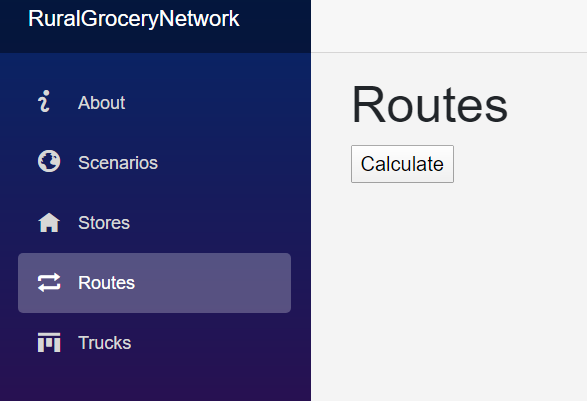
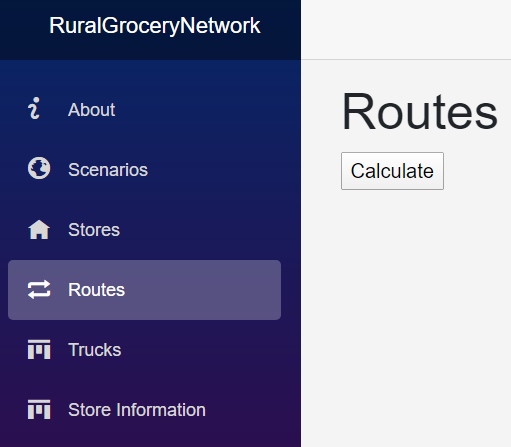
updated some of the screenshots and also updated the user-documentation

diff --git a/userdoc/user-documentation.md b/userdoc/user-documentation.md
@@ -18,7 +18,8 @@ should be. Once you are done entering the information, hit the "Register" button
 ![Register an account](img/register-account.PNG)
 
 To Login, you just enter the email and password that you provided in the registration. Once it is entered, hit the
-"Log In" Button. Users can also click "forgot password" to change the password through email, or "Register as a new user" to redirect to the registration page. Currently the functionality for recovering/changing passwords through email is a Work-In Progress.
+"Log In" Button. Users can also click "Forgot Password" to change the password through email, or "Register as a new user" 
+to redirect to the registration page. Currently the functionality for recovering/changing passwords through email is a Work-In Progress (WIP).
 
 ![Login page](img/login.PNG)
 
@@ -28,7 +29,8 @@ on the upper right hand corner of the page.
 ![Login Successful](img/login-complete.PNG)
 
 ### Account Settings
-When logged in, click on the email on the upper right hand corner to access Account Settings. To navigate back to the main web pages, just click on the "RuralGroceryNetwork" Banner at the top of the page. Currently we have the following settings for user accounts:
+When logged in, click on the email on the upper right hand corner to access Account Settings. To navigate back to the main web pages, 
+just click on the "RuralGroceryNetwork" Banner at the top of the page. Currently we have the following settings for user accounts:
 
 #### Profile information
 Users can change username and add/change the phone number for the account.
@@ -47,14 +49,18 @@ This is where users can change the password for their account. They do need to e
 ![Password Setting](img/password.PNG)
 
 #### Two-Step Authentication
-Users can add an app to do Two-Step Authentication with. After clicking the "set up authenticator app" button, you get steps to add an app like Microsoft Authenticator, using QR Code generation or through a key entry that is provided in this page. Users can also reset their authentication key, for when they want to stop using it or want to switch authentication apps.
+Users can add an app to do Two-Step Authentication with. After clicking the "set up authenticator app" button, 
+you get steps to add an app like Microsoft Authenticator, using QR Code generation or through a key entry that is provided in this page. 
+Users can also reset their authentication key, for when they want to stop using it or want to switch authentication apps.
 
 ![2 Step Authentication](img/authentication.PNG)
 
 ![Add Authentication](img/add-authentication.PNG)
 
 #### Personal Data
-Any personal data associated with users can either be downloaded or deleted through this page. Data is downloaded as a JSON file. Note that deleting data does delete the account, but it needs password confirmation in order to accomplish it.
+Any personal data associated with users can either be downloaded or deleted through this page. 
+Account Information is downloaded as a JSON file. Note that deleting data does delete the account, 
+but it needs password confirmation in order to accomplish it.
 
 ![Personal Data](img/personal-data.PNG)
 
@@ -64,26 +70,37 @@ Stores, Routes, and Trucks.
 
 #### Scenarios Page
 Scenarios are used for storing different scenarios for distribution. It allows user to name and describe scenarios, which will be saved
-with the User. This page also has a form to enter arcGIS information, since the mapping portion requires a arcGIS account/license to use. Scenario Saving is currently implemented, but otherwise this page is still a Work-In-Progress.
+with the User. This page also has a form to enter arcGIS information, since the mapping portion requires a arcGIS account/license to use. 
+Currently this page is a WIP.
 
 ![Scenarios Page](img/scenarios-page.PNG)
 
 #### Stores Page
 Stores allows users to enter store locations and will allow routing between stores, along with importing store data from .CSV files.
-This page also shows the routing through a map using ArcGIS. Currently the map can allow clicking on to place markers, but otherwise
-the route drawing, file importing, and field entries are still a Work-In Progress.
+This page also shows the routing through a map using ArcGIS. Currently the map can be clicked on to add nodes, then you also add nodes
+using either latitude/longitude coordinates or actuall addresses, and routes can be drawn for those nodes. The store locations can't be pulled from
+the Database as of now though, so this page is still a WIP.
 
 ![Stores Page](img/stores-page.PNG)
 
 ![arcGIS map](img/stores-map.PNG)
 
 #### Routes Page
-Routes are where the calculations take place and will calculate the optimal route to take for distribution. Hit the "Calculate" Button to run the calculation. This functionality is still a Work-In Progress.
+Routes are where the calculations take place and will calculate the optimal route to take for distribution. This
+information will be based on what is entered/retrieved in the Stores Page. Hit the "Calculate" Button to run the calculation. This page is still a WIP.
 
 ![Routes Page](img/routes-page.PNG)
 
 #### Trucks Page
-Trukcs are where truck information can be, such as the start and end location for the truck, as well as the truck name and carrying capacity. Hit "Add Truck" to save the truck information. This functionality is still a Work-In Progress.
+Trucks are where truck information can be, such as the start and end location for the truck, as well as the truck name and carrying capacity. 
+Hit "Add Truck" to save the truck information. This page is still a WIP.
 
 ![Trucks Page](img/trucks-page.PNG)
 
+#### Store Information Page.
+This is where all the store information is currently stored, and it can also be modified and saved into the site's database. This page
+has an accordion-style menu that collapses when each section's header is clicked on. We divide the information into 5 different sections, with each
+section having it's own save and edit buttons, and being edited via a text entry or checkbox toggle (for the fields that are editable).
+This page has database interactions, as well as functioning editing/saving of each field, but still is a WIP due
+
+![Store Info Page](img/storeinfo-page.PNG)
